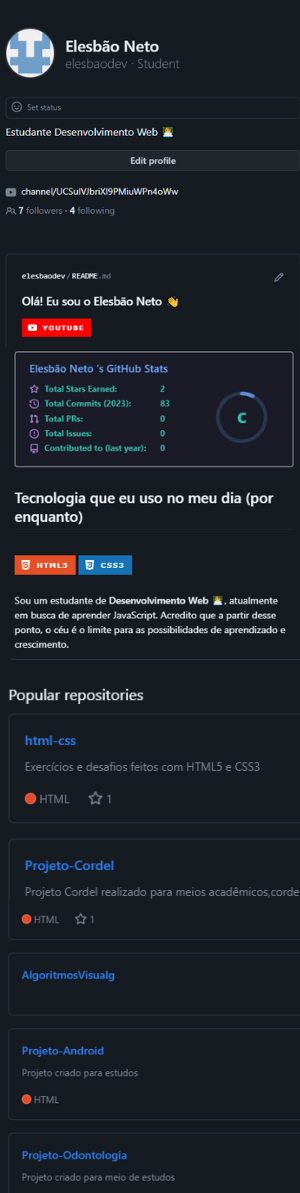
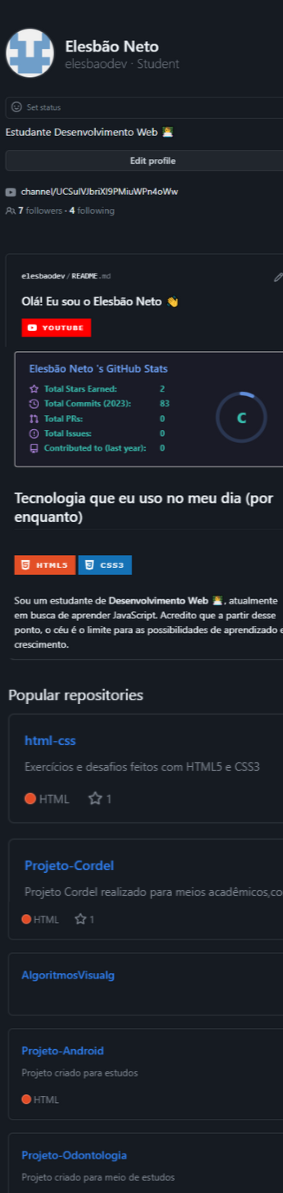
Terminei o projeto social.

diff --git a/pag004.html b/pag004.html
@@ -17,10 +17,10 @@
             background-color: darkred;
             position: absolute;
             text-align: center;
-            left: 2%;
-            width: 227px;
-            height: 21px;
-            top: 69%;
+            left: 0%;
+            width: 224px;
+            height: 14px;
+            top: 89%;
         } 
 
         a:hover {
@@ -30,7 +30,7 @@
 </head>
 <body>
     <section id="perfil">
-        <iframe id="perfil" src="imagens/tela-github.png" frameborder="0"></iframe>
+        <iframe id="perfil" src="imagens/telagit.png" frameborder="0"></iframe>
         <a href="https://github.com/elesbaodev" target="_blank">ACESSE</a>
     </section>
     

diff --git a/pag002.html b/pag002.html
@@ -34,8 +34,8 @@
             text-align: center;
             left: 2%;
             width: 227px;
-            height: 21px;
-            top: 69%;
+            height: 14px;
+            top: 70%;
         }
         a:hover {
             background-color: red;

diff --git a/estilos/style.css b/estilos/style.css
@@ -11,7 +11,7 @@ iframe {
 
 
 #tela {
-    height: 738px;
+    height: 654px;
     width: 267px;
 }
 
@@ -88,7 +88,7 @@ iframe {
 
 #perfil {
     position: fixed;
-    left: 1%;
+    left: 3%;
     top: 1%;
     height: 469px;
     width: 466px;
